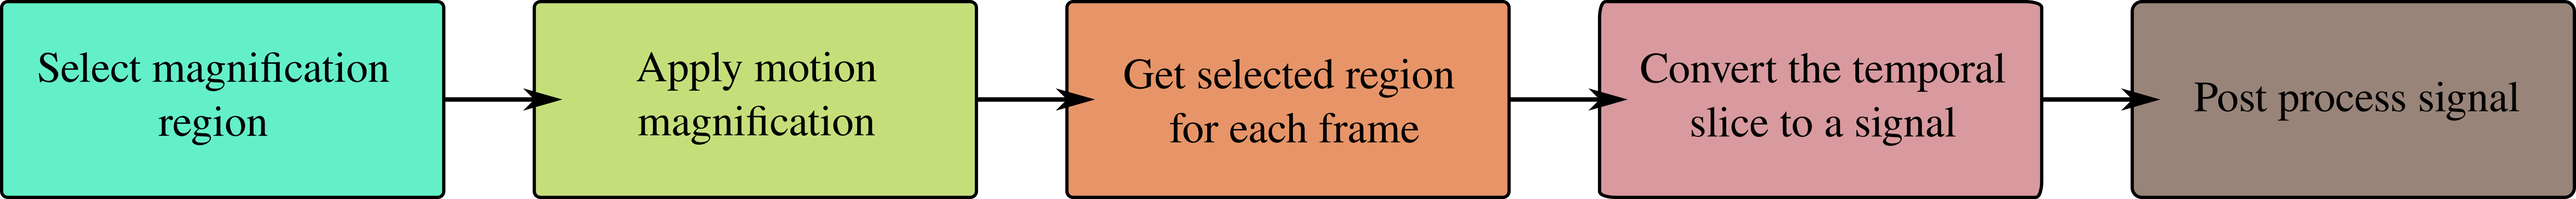
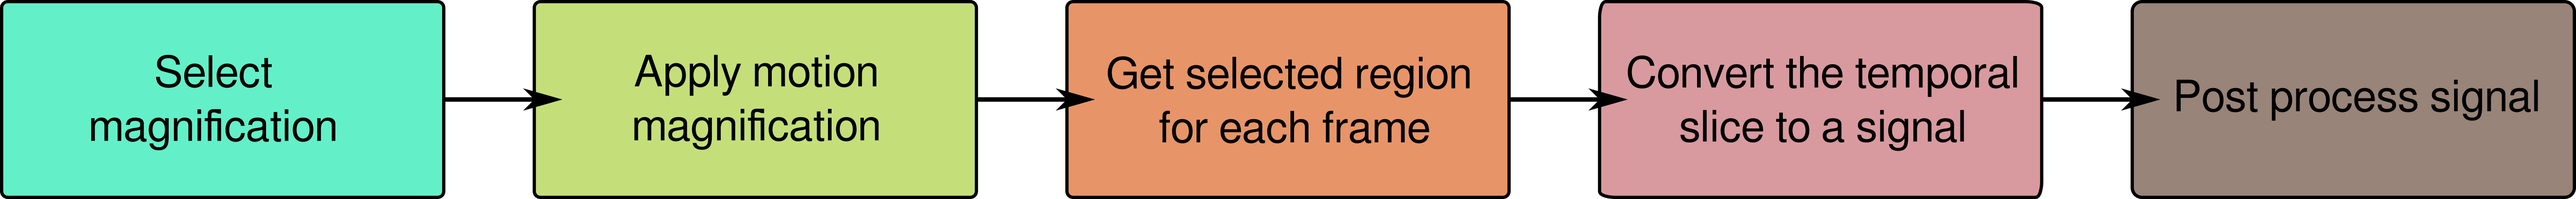
Paper revision - Bibliography fix - Minor content fix - Figures font change

diff --git a/paper/paper.md b/paper/paper.md
@@ -28,7 +28,7 @@ bibliography: paper.bib
 
 Recent developments in computer vision have brought about a new set of techniques called Video Motion Magnification, which are capable of identifying and magnifying eye-imperceptible movements in video data. These techniques have proved effective in applications such as producing visual representations of an object’s operating deflection shapes or recovering sound from a room behind soundproof glass. Our research explores the new possibilities of motion magnification applied to Structural Health Monitoring (SHM) and vibration testing, harnessing the latest advances in deep-learning to achieve state-of-the-art results.
 
-Vision-based damage detection techniques can reduce sensor deployment costs while providing accurate, useful, and full-field readings of structural behavior. We present a new video processing approach that allows the treatment of video data to obtain vibrational signatures of complex structures. Therefore, enabling the identification of very light structural damage in a controlled lab environment. The presented software approach is based on the use of state-of-the-art deep-learning video motion magnification techniques, which offer an easy-to-use, effective, full-field tool for SHM at a fraction of the cost of contact-based techniques.
+Vision-based damage detection techniques can reduce sensor deployment costs while providing accurate, useful, and full-field readings of structural behavior. We present a new video processing approach that allows the treatment of video data to obtain vibrational signatures of complex structures. This approach enables the identification of very light structural damage in a controlled lab environment. The presented software is based on the use of state-of-the-art deep-learning video motion magnification techniques to offer an easy-to-use, effective, full-field tool for SHM at a fraction of the cost of contact-based techniques.
 
 # Related work
 
@@ -53,7 +53,7 @@ However, the use for ViMag might not be constrained to mechanical engineering ex
 
 ![Video sequence transformation to temporal slice \label{fig:slice_gen}](slice_gen.png){ width=80% }
 
-Motion magnification acts like a microscope for motion, magnifying tiny movements on video sequences to retrieve seemingly invisible or almost imperceptible movements. Consequently, motion magnification may allow the naked eye to see a structure’s operating deflection shapes as they happened in real operating conditions. The STB-VMM model consists of three main functional blocks that extract features from frames, manipulate those features and finally reconstruct the frames. Implemented in PyTorch [@NEURIPS2019_9015], STB-VMM borrows ideas from @ViT;@Vaswani2017AttentionIA;@SWIN to improve the image quality offered by prior motion magnification methods at the cost of some performance. The lack of temporal filtering and the higher image quality offered by STB-VMM play an important role in applications that require precise magnification for vibration monitoring, as less-noisy images produce clearer signals that highlight abnormal behaviors sooner.
+Motion magnification acts like a microscope for motion, magnifying tiny movements on video sequences to retrieve seemingly invisible or almost imperceptible movements. Consequently, motion magnification may allow the naked eye to see a structure’s operating deflection shapes as they happened in real operating conditions. The STB-VMM model consists of three main functional blocks that extract features from frames, manipulate those features and finally reconstruct the frames. Implemented in PyTorch [@NEURIPS2019_9015], STB-VMM borrows ideas from @ViT, @Vaswani2017AttentionIA, and @SWIN to improve the image quality offered by prior motion magnification methods at the cost of some performance. The lack of temporal filtering and the higher image quality offered by STB-VMM play an important role in applications that require precise magnification for vibration monitoring, as less-noisy images produce clearer signals that highlight abnormal behaviors sooner.
 
 
 # Acknowledgements
